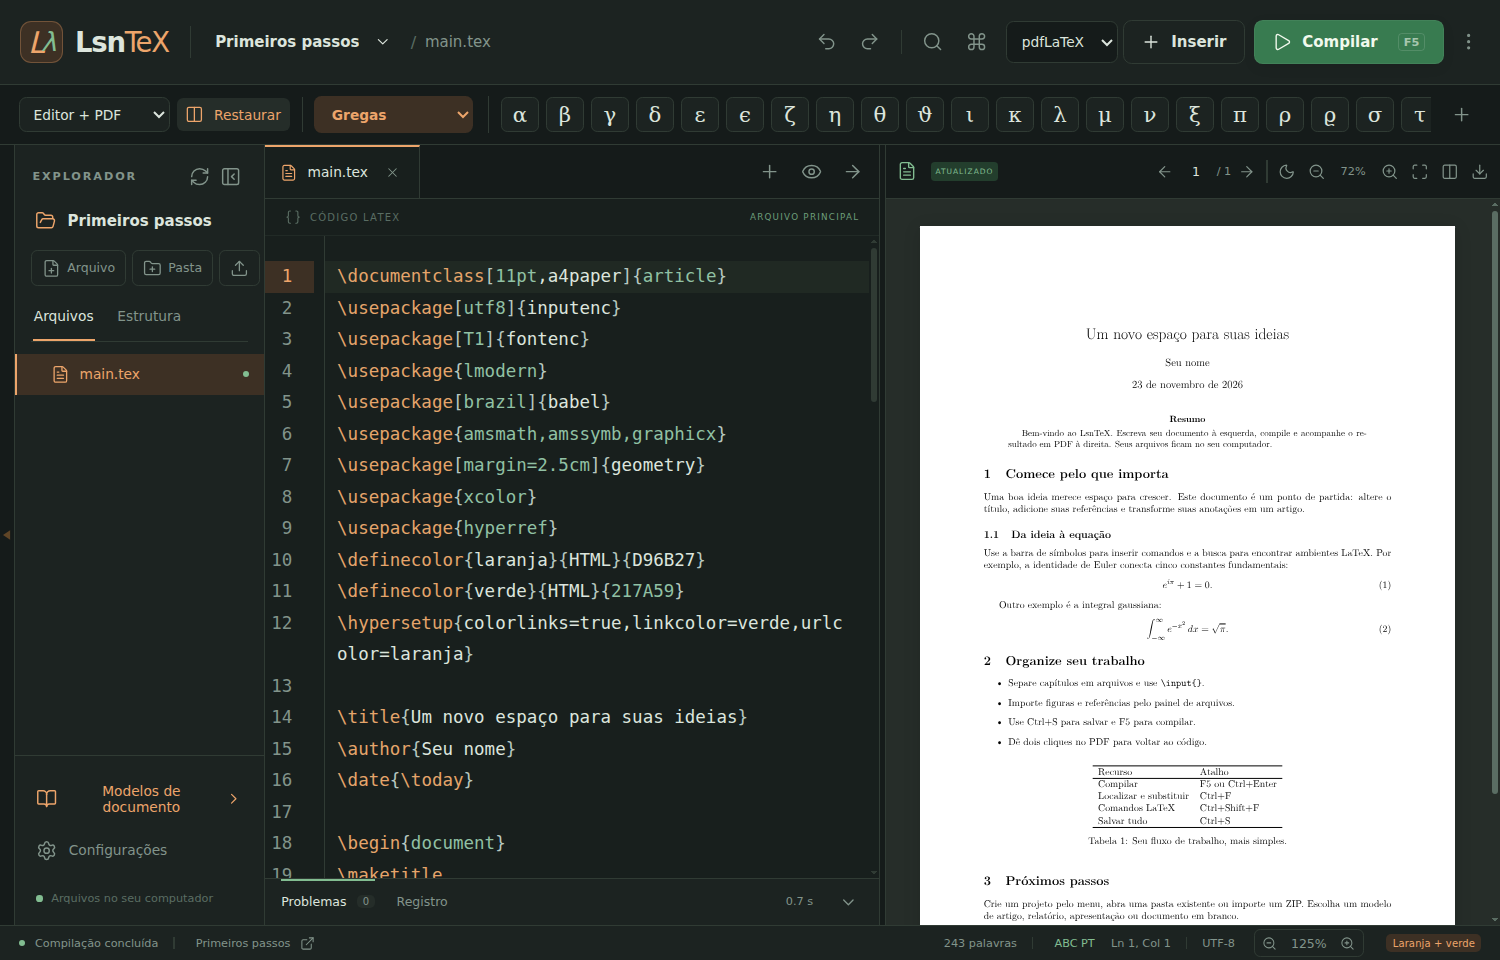
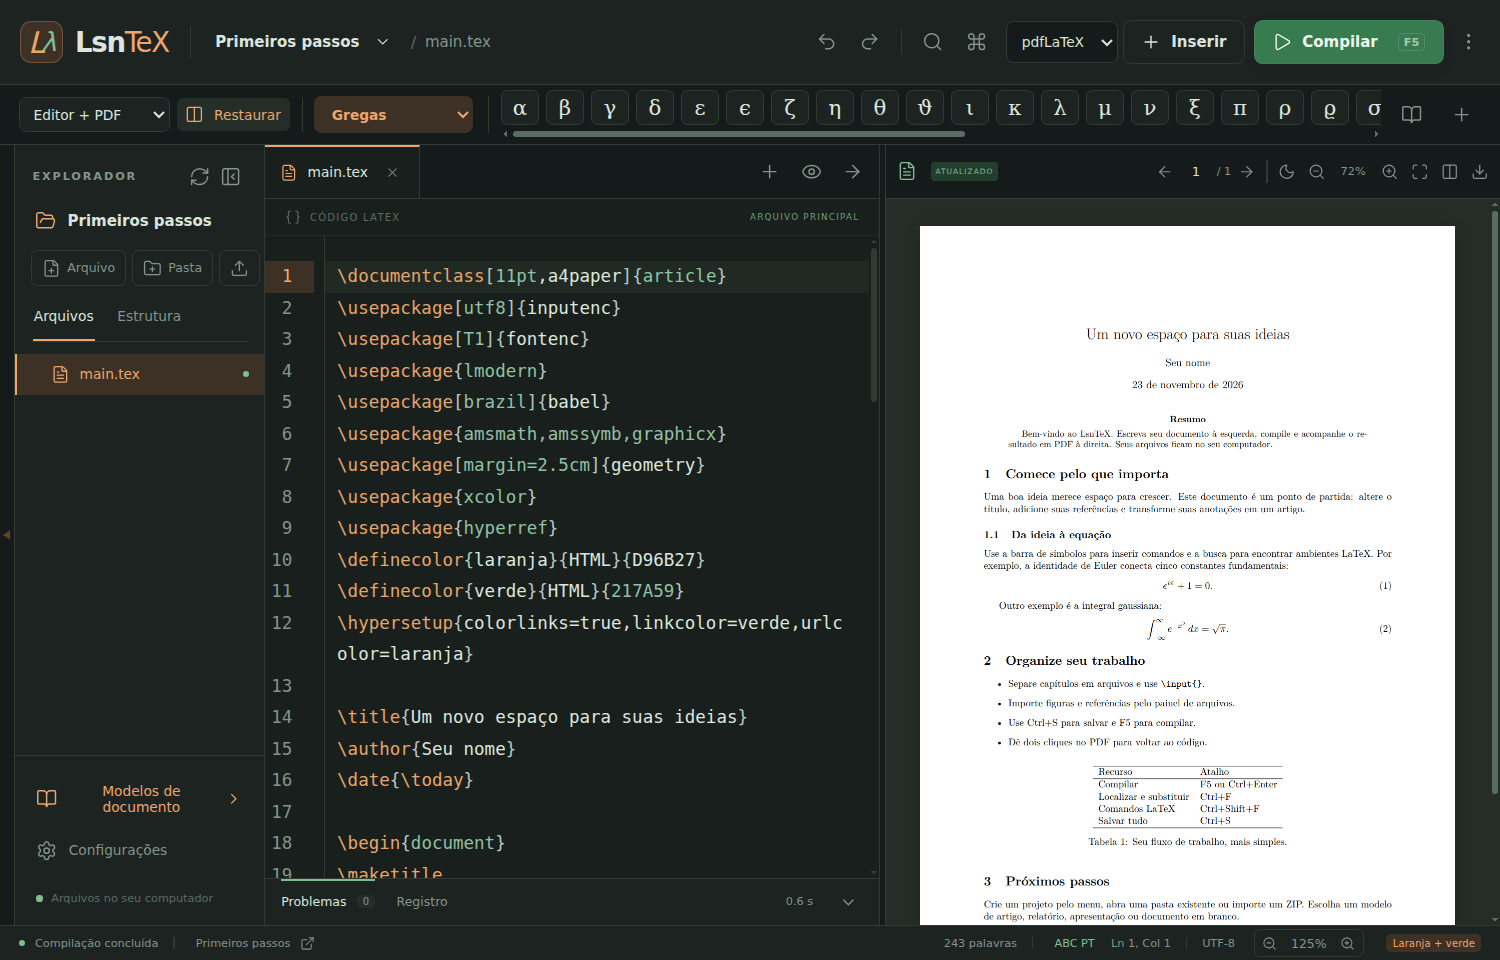
Add LsnTeX downloads, installation guide and licenses

diff --git a/README.md b/README.md
@@ -10,11 +10,11 @@ Este repositório reúne os instaladores, versões portáteis e informações de
 
 | Sistema | Arquivo | Uso |
 | --- | --- | --- |
-| Windows x64 | `LsnTeX-0.4.0-Instalador-x64.exe` | Instalação com atalho |
-| Windows x64 | `LsnTeX-0.4.0-Portatil-x64.exe` | Executável sem instalação |
-| Ubuntu / Debian amd64 | `LsnTeX-0.4.0-Linux-amd64.deb` | Instalação pelo apt |
-| Linux x86_64 | `LsnTeX-0.4.0-Linux-x86_64.AppImage` | Aplicativo portátil |
-| Linux x64 | `LsnTeX-0.4.0-Linux-x64.tar.gz` | Pasta portátil compactada |
+| Windows x64 | `LsnTeX-0.5.0-Instalador-x64.exe` | Instalação com atalho |
+| Windows x64 | `LsnTeX-0.5.0-Portatil-x64.exe` | Executável sem instalação |
+| Ubuntu / Debian amd64 | `LsnTeX-0.5.0-Linux-amd64.deb` | Instalação pelo apt |
+| Linux x86_64 | `LsnTeX-0.5.0-Linux-x86_64.AppImage` | Aplicativo portátil |
+| Linux x64 | `LsnTeX-0.5.0-Linux-x64.tar.gz` | Pasta portátil compactada |
 
 Os pacotes não exigem Node.js. Instruções de uso e `SHA256SUMS.txt` acompanham cada versão.
 
@@ -23,14 +23,18 @@ Os pacotes não exigem Node.js. Instruções de uso e `SHA256SUMS.txt` acompanha
 - Projetos em pastas locais, importação e exportação de ZIP, arquivos e abas.
 - Editor LaTeX com autocompletar, indentação, busca, símbolos, macros e atalhos.
 - PDF integrado, zoom, restauração da visualização e SyncTeX nos dois sentidos.
+- Prévia do PDF em qualidade Alta ou Ultra, zoom com Ctrl + rolagem e preservação do ponto de leitura.
+- Barra de símbolos com rolagem horizontal e dicionários pessoais editáveis, com importação/exportação JSON.
 - Correção ortográfica offline em português e inglês, sugestões e dicionário pessoal.
 - Cinco paletas: Clássico, Oceano, Ametista, Grafite e Aurora, com aparência clara ou escura. Laranja e verde continuam como padrão.
 - Escala de toda a interface, de 100% a 200%.
 - Modelos de artigo, relatório, Beamer, carta e TikZ com exemplos de fluidodinâmica.
 
-![LsnTeX no Windows com a paleta Oceano](images/windows.png)
+![LsnTeX no Windows com PDF e símbolos pessoais](images/windows.png)
 
 ![LsnTeX no Linux com a paleta Clássico](images/linux.png)
+
+![Dicionários de símbolos pessoais](images/symbols.png)
 
 ## Instalação
 
@@ -39,7 +43,7 @@ No Windows, execute o instalador ou a edição portátil. Se nenhum compilador f
 No Ubuntu / Debian, na pasta do arquivo baixado:
 
 ```bash
-sudo apt install ./LsnTeX-0.4.0-Linux-amd64.deb
+sudo apt install ./LsnTeX-0.5.0-Linux-amd64.deb
 ```
 
 O apt resolve as bibliotecas necessárias e recomenda os componentes do TeX Live que cobrem os modelos incluídos. No Linux, use o gerenciador da distribuição para instalar o compilador e seus componentes adicionais.
@@ -47,8 +51,8 @@ O apt resolve as bibliotecas necessárias e recomenda os componentes do TeX Live
 Para o AppImage:
 
 ```bash
-chmod +x LsnTeX-0.4.0-Linux-x86_64.AppImage
-./LsnTeX-0.4.0-Linux-x86_64.AppImage
+chmod +x LsnTeX-0.5.0-Linux-x86_64.AppImage
+./LsnTeX-0.5.0-Linux-x86_64.AppImage
 ```
 
 Sem FUSE, acrescente `--appimage-extract-and-run`. Se a política de sandbox do sistema restringir aplicativos portáteis, prefira o `.deb`.
@@ -62,3 +66,4 @@ A versão Linux x64 foi testada no Ubuntu 24.04 pelo WSL2, com TeX Live. Outras 
 ## Licenças
 
 O LsnTeX é distribuído sob a licença MIT. Os pacotes incluem os avisos e licenças de seus componentes. MiKTeX e TeX Live são instalações independentes. Os arquivos `THIRD-PARTY-NOTICES.txt` e `FONTES-DICIONARIOS.txt` acompanham os releases.
+
